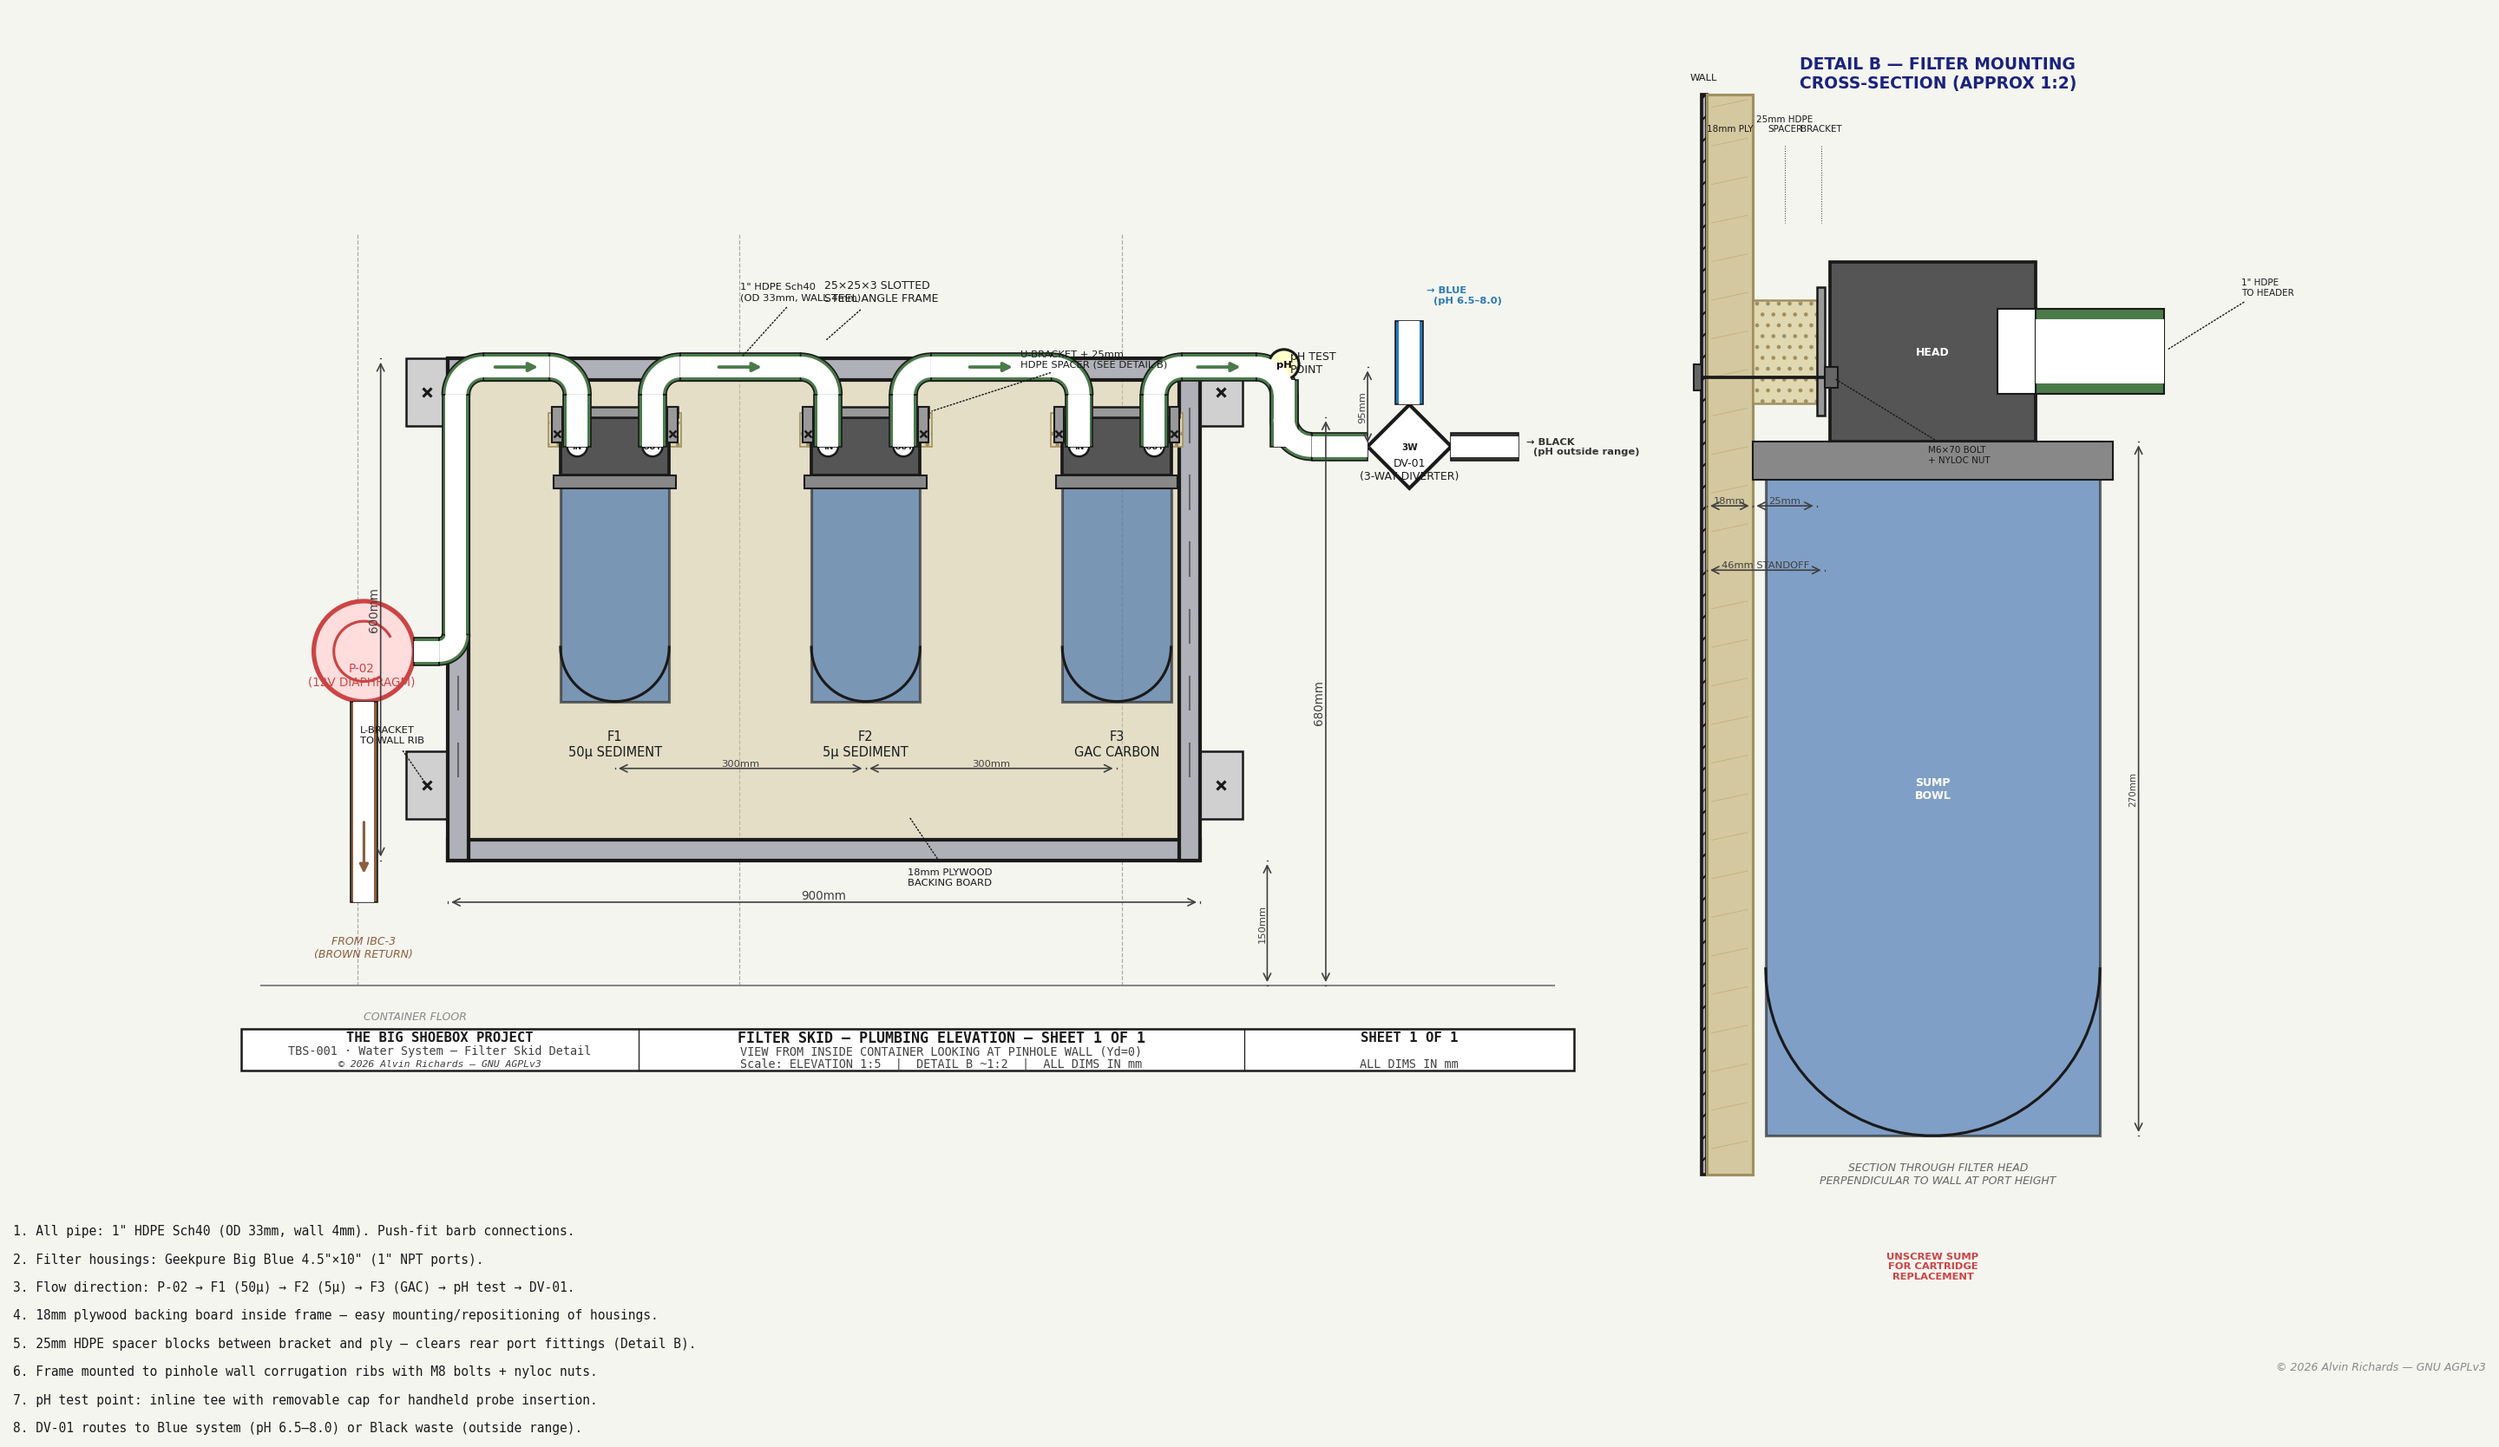
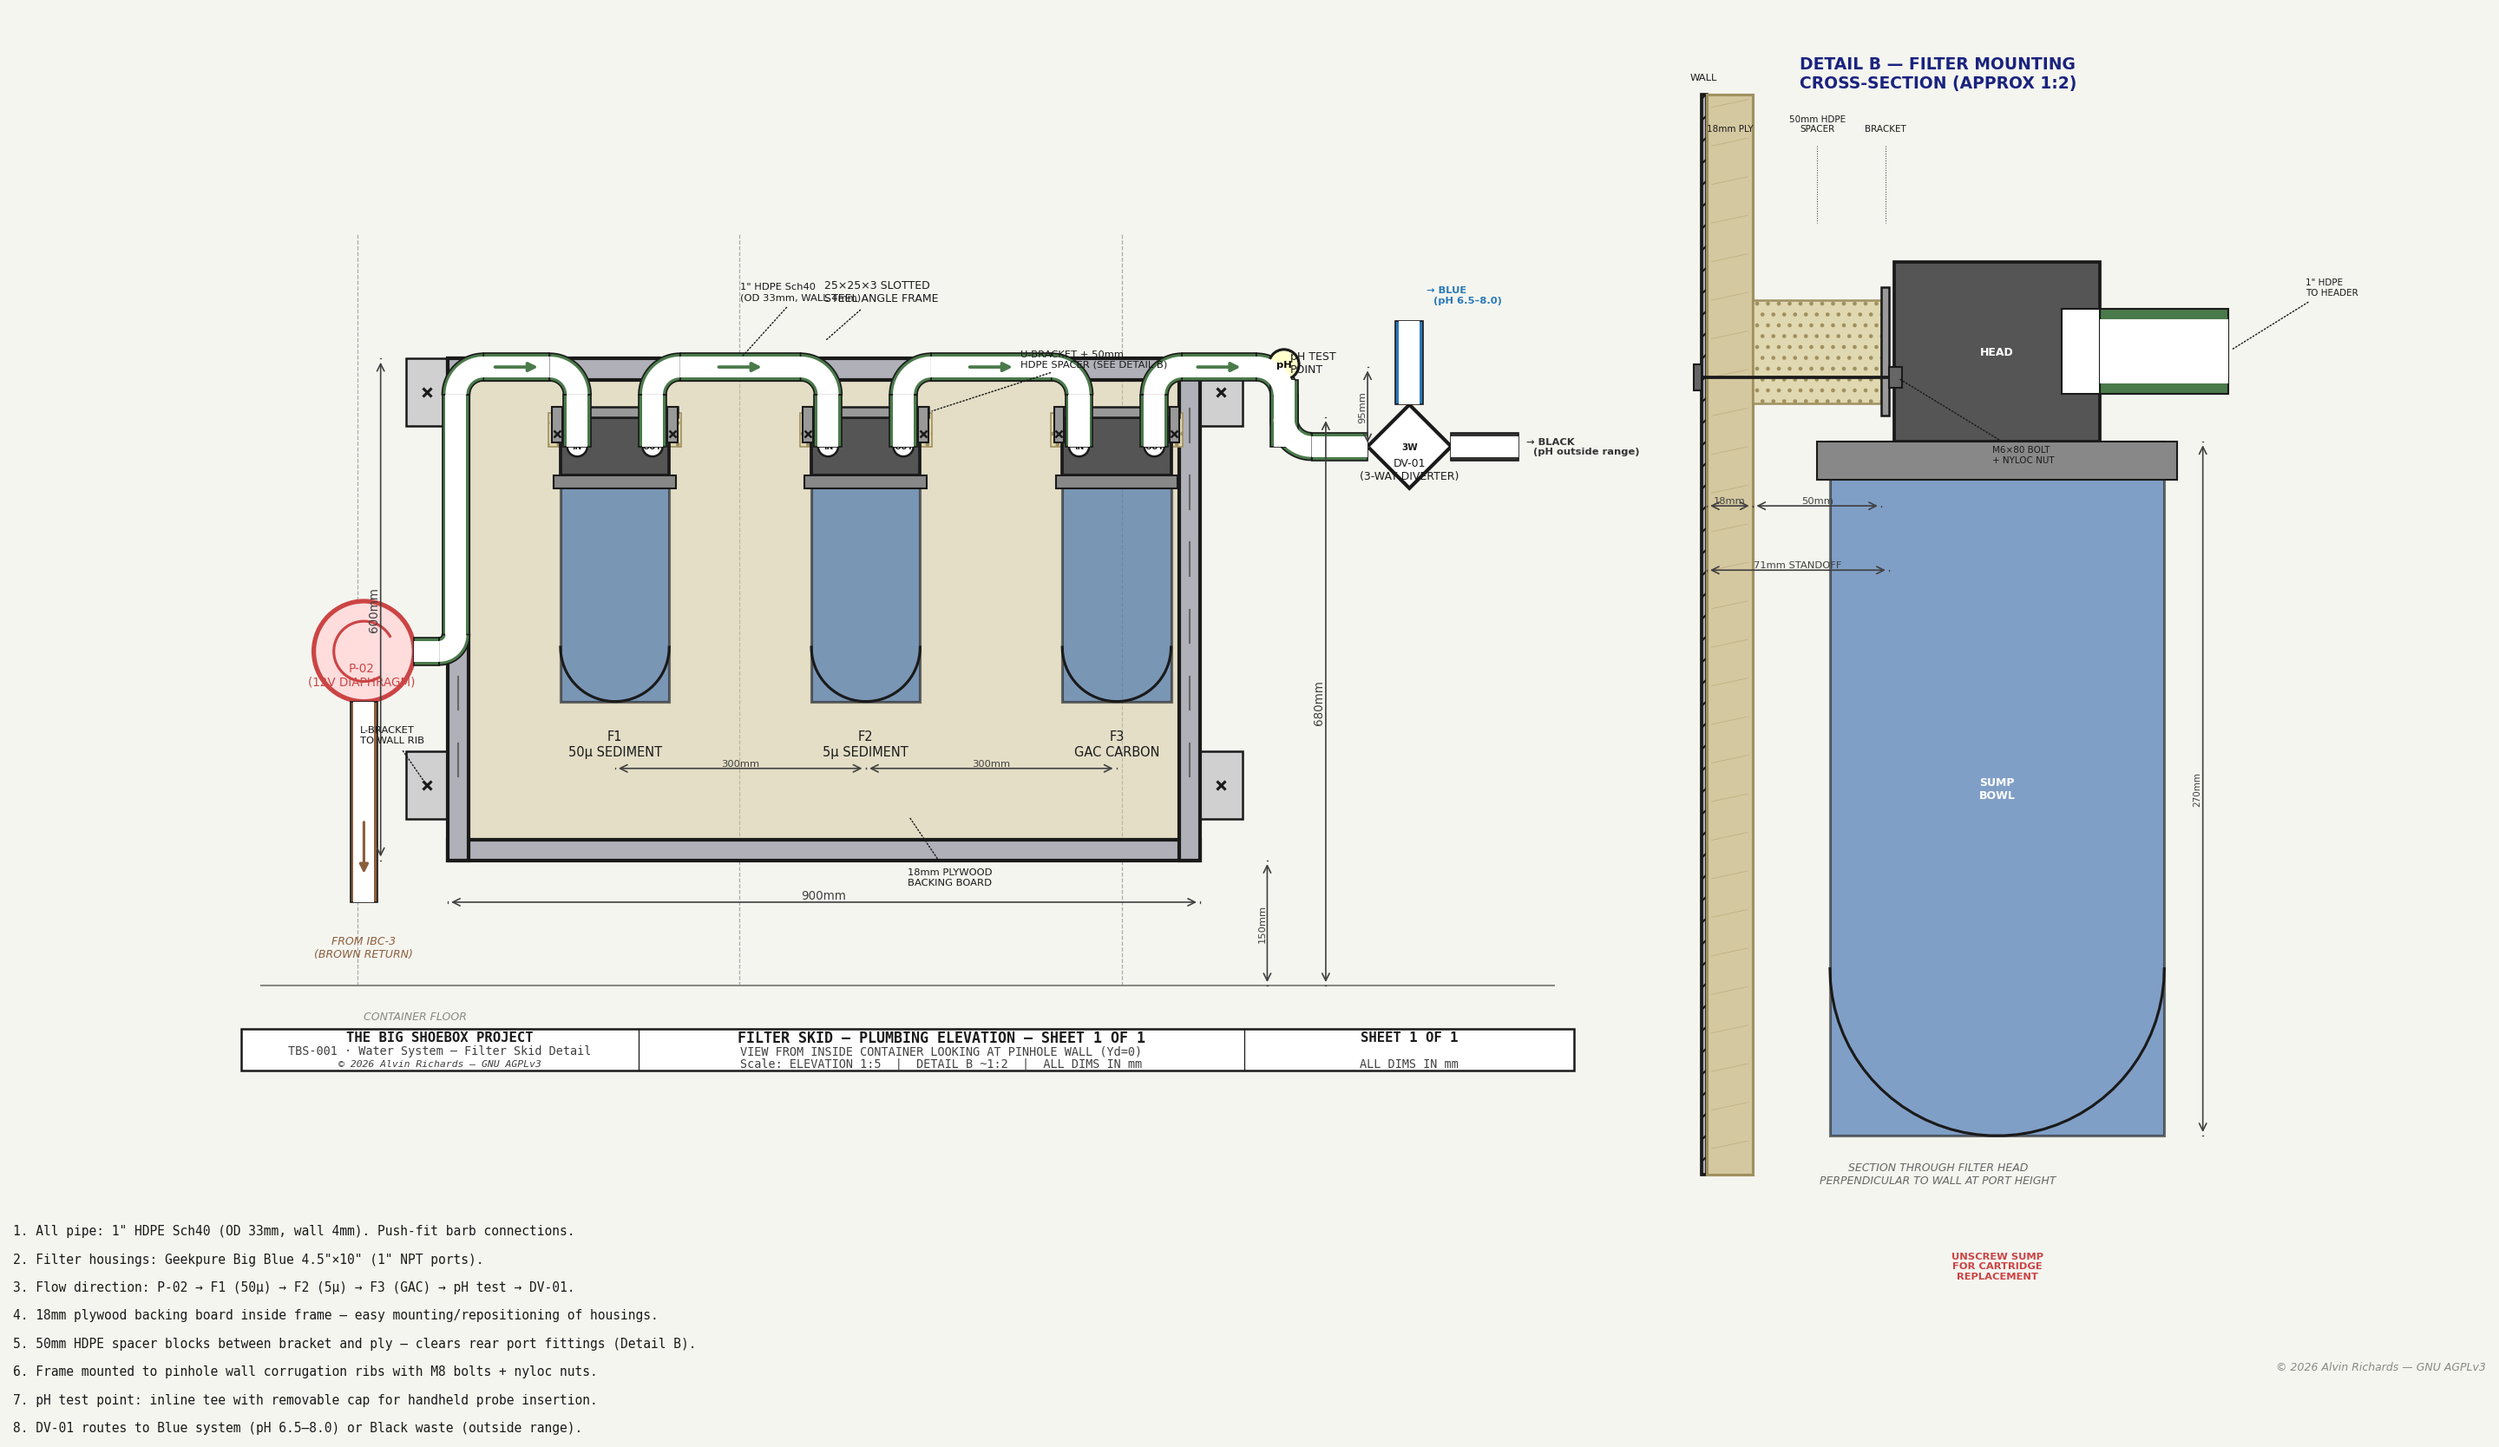
Increase HDPE spacer from 25mm to 50mm for visible standoff
Doubles spacer thickness so the gap between backing board and filter
head is unambiguous in both the elevation and Detail B cross-section.
Total standoff now 71mm (18mm ply + 50mm HDPE + 3mm bracket).
Bolt updated to M6x80 to suit longer stack-up.

diff --git a/generate_filter_skid_diagram.py b/generate_filter_skid_diagram.py
@@ -227,7 +227,7 @@ def draw_filter_housing(ax, cx_mm, label, filter_type):
 
     # HDPE spacer blocks (25mm standoff between bracket and backing board)
     # Visible in elevation as small rectangles behind bracket tabs
-    SPACER_D = 25   # spacer depth (Yd direction — not visible in elevation)
+    SPACER_D = 50   # spacer depth (Yd direction — not visible in elevation)
     SPACER_H = 40   # spacer height (visible)
     SPACER_W = 20   # spacer width (visible, slightly wider than bracket tab)
     spacer_z = FILT_HEAD_Z - bracket_tab - 5
@@ -616,7 +616,7 @@ leader(ax, sx(FSKID_X + FSKID_W / 2 + 100), sz(FSKID_Z_LO + ANGLE_W + 30),
 # Mounting bracket
 leader(ax, sx(F2_X + BB_OD / 2 + 10), sz(FILT_HEAD_Z + 6),
        sx(F2_X + BB_OD / 2 + 120), sz(FILT_HEAD_Z + 70),
-       "U-BRACKET + 25mm\nHDPE SPACER (SEE DETAIL B)", fs=5.5)
+       "U-BRACKET + 50mm\nHDPE SPACER (SEE DETAIL B)", fs=5.5)
 
 # Pipe material
 leader(ax, sx((f1_out + f2_in) / 2), sz(HEADER_Z + 10),
@@ -634,7 +634,7 @@ notes = [
     "2. Filter housings: Geekpure Big Blue 4.5\"×10\" (1\" NPT ports).",
     "3. Flow direction: P-02 → F1 (50μ) → F2 (5μ) → F3 (GAC) → pH test → DV-01.",
     "4. 18mm plywood backing board inside frame — easy mounting/repositioning of housings.",
-    "5. 25mm HDPE spacer blocks between bracket and ply — clears rear port fittings (Detail B).",
+    "5. 50mm HDPE spacer blocks between bracket and ply — clears rear port fittings (Detail B).",
     "6. Frame mounted to pinhole wall corrugation ribs with M8 bolts + nyloc nuts.",
     "7. pH test point: inline tee with removable cap for handheld probe insertion.",
     "8. DV-01 routes to Blue system (pH 6.5–8.0) or Black waste (outside range).",
@@ -647,7 +647,7 @@ for i, n in enumerate(notes):
 # DETAIL B — FILTER MOUNTING CROSS-SECTION (~1:2)
 # Side elevation (vertical section perpendicular to pinhole wall)
 # Yd horizontal (wall at left), Z vertical
-# Shows: corrugated wall → 18mm ply → 25mm HDPE spacer → bracket tab →
+# Shows: corrugated wall → 18mm ply → 50mm HDPE spacer → bracket tab →
 #        filter head → sump bowl below → 1" NPT port with pipe
 # ═══════════════════════════════════════════════════════════════════════════════
 
@@ -700,9 +700,9 @@ for gz in range(-310, 100, 15):
 draw_dim_h(ax2, sb_y(PLY_YD_START), sb_y(PLY_YD_START + PLY_THICK),
            sb_z(-60), "18mm", offset=0.3, fs=5.5)
 
-# ── 3. HDPE spacer block (25mm) ─────────────────────────────────────────────
+# ── 3. HDPE spacer block (50mm) ─────────────────────────────────────────────
 SPACER_YD = PLY_YD_START + PLY_THICK
-SPACER_THICK = 25
+SPACER_THICK = 50
 SPACER_VIS_H = 40   # visible height in section
 ax2.add_patch(plt.Rectangle((sb_y(SPACER_YD), sb_z(-SPACER_VIS_H / 2)),
               SPACER_THICK / SC_B, SPACER_VIS_H / SC_B,
@@ -711,7 +711,7 @@ ax2.add_patch(plt.Rectangle((sb_y(SPACER_YD), sb_z(-SPACER_VIS_H / 2)),
 
 # Dimension: spacer thickness
 draw_dim_h(ax2, sb_y(SPACER_YD), sb_y(SPACER_YD + SPACER_THICK),
-           sb_z(-60), "25mm", offset=0.3, fs=5.5)
+           sb_z(-60), "50mm", offset=0.3, fs=5.5)
 
 # ── 4. Steel bracket tab (3mm) ──────────────────────────────────────────────
 BRACKET_YD = SPACER_YD + SPACER_THICK
@@ -744,7 +744,7 @@ ax2.add_patch(plt.Rectangle((sb_y(bolt_y_tip - 3), sb_z(BOLT_Z - 5)),
 # Bolt label
 leader(ax2, sb_y(bolt_y_head + 3), sb_z(BOLT_Z),
        sb_y(bolt_y_head + 40), sb_z(BOLT_Z - 30),
-       "M6×70 BOLT\n+ NYLOC NUT", fs=5)
+       "M6×80 BOLT\n+ NYLOC NUT", fs=5)
 
 # ── 5. Filter head (section through center) ─────────────────────────────────
 HEAD_YD = BRACKET_YD + BRACKET_THICK + 2  # small gap for clamp band
@@ -831,7 +831,7 @@ ax2.add_patch(plt.Rectangle(
     fc="#888888", ec=C_FRAME, lw=1.0, zorder=6))
 
 # ── Overall standoff dimension ───────────────────────────────────────────────
-total_standoff = PLY_THICK + SPACER_THICK + BRACKET_THICK  # 18 + 25 + 3 = 46mm
+total_standoff = PLY_THICK + SPACER_THICK + BRACKET_THICK  # 18 + 50 + 3 = 71mm
 draw_dim_h(ax2, sb_y(PLY_YD_START), sb_y(BRACKET_YD + BRACKET_THICK),
            sb_z(-85), f"{total_standoff}mm STANDOFF", offset=0.3, fs=5.5)
 
@@ -839,7 +839,7 @@ draw_dim_h(ax2, sb_y(PLY_YD_START), sb_y(BRACKET_YD + BRACKET_THICK),
 label_z = 85
 label_items = [
     (PLY_YD_START + PLY_THICK / 2, "18mm PLY"),
-    (SPACER_YD + SPACER_THICK / 2, "25mm HDPE\nSPACER"),
+    (SPACER_YD + SPACER_THICK / 2, "50mm HDPE\nSPACER"),
     (BRACKET_YD + BRACKET_THICK / 2, "BRACKET"),
 ]
 for ly, ltxt in label_items:
